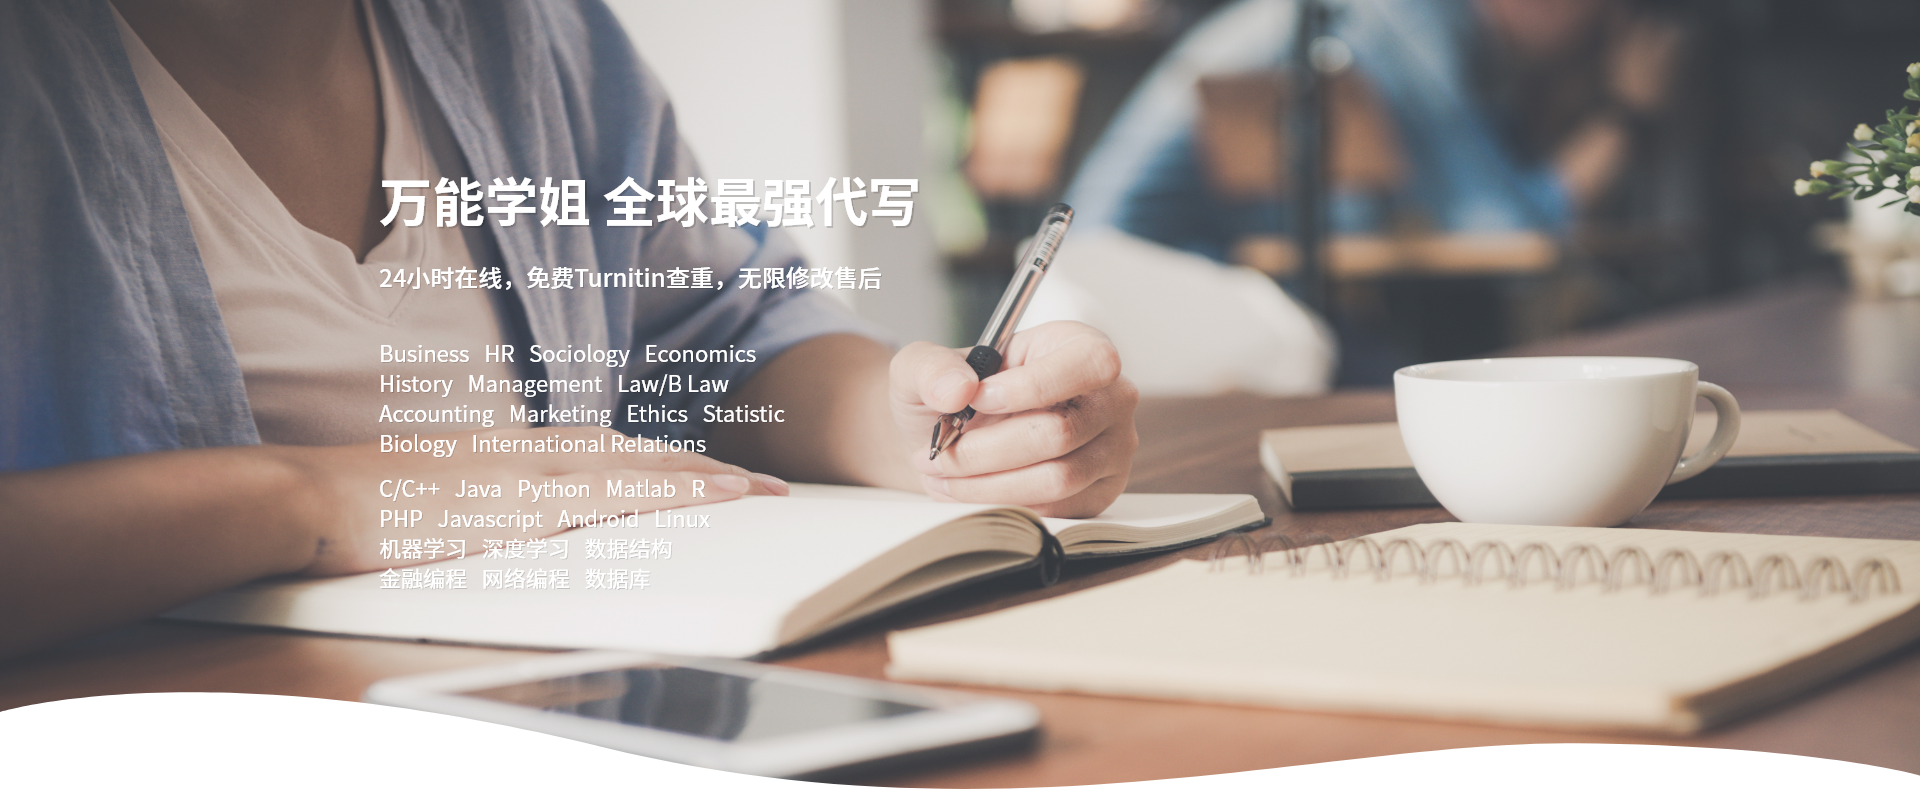
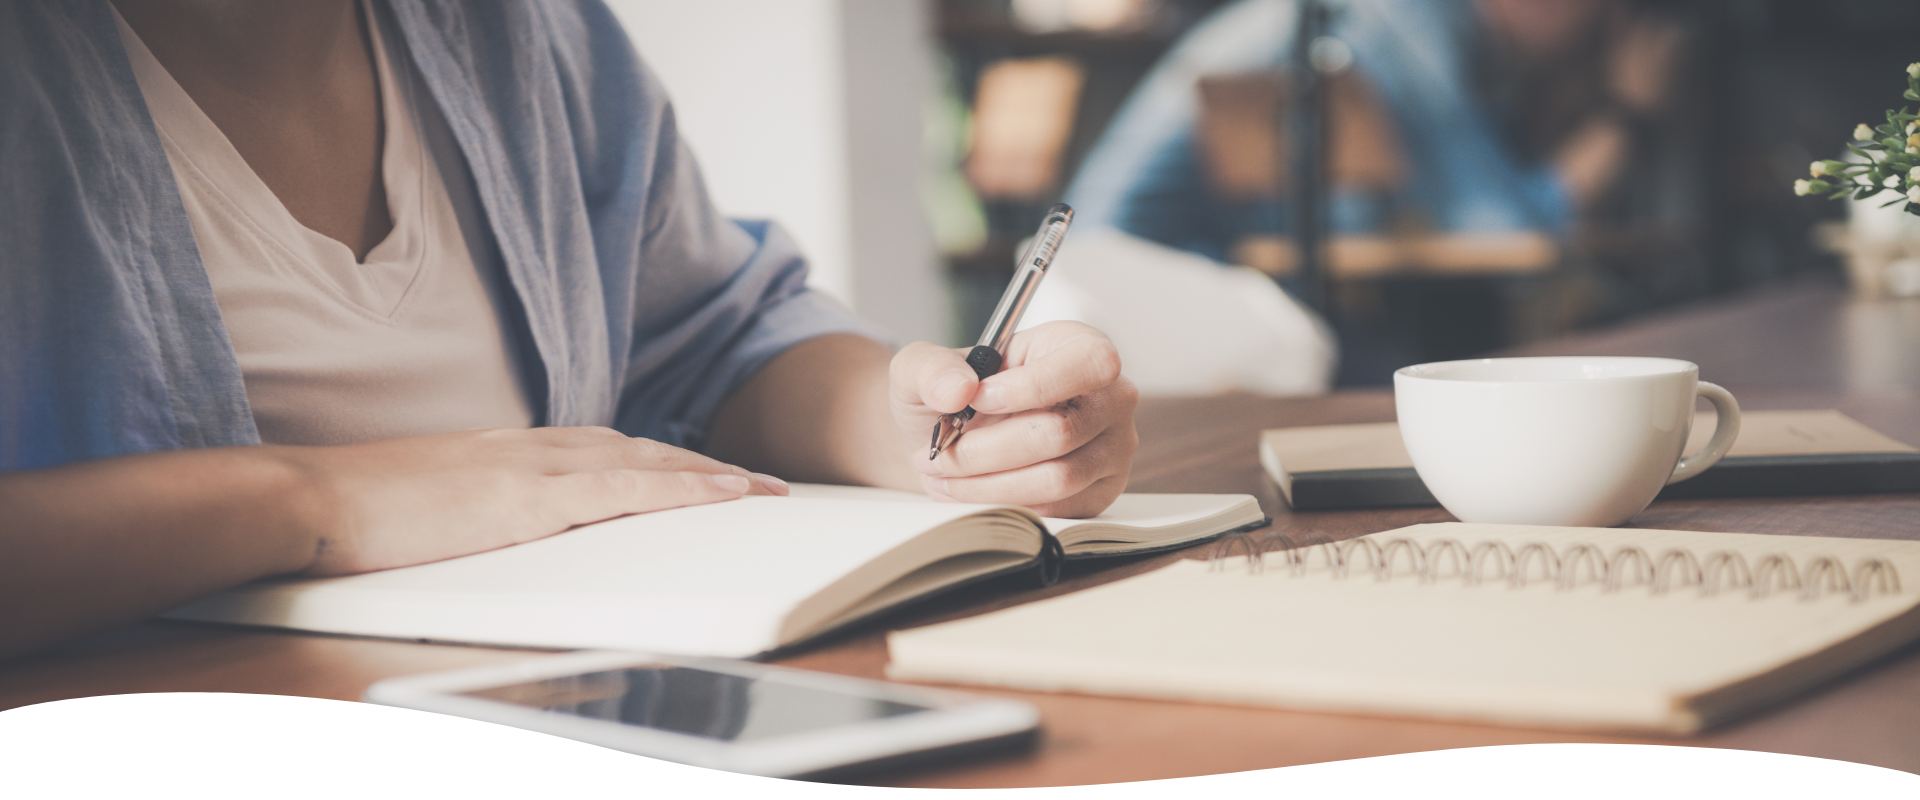
update

diff --git a/Application/Home/View/Index/index.html b/Application/Home/View/Index/index.html
@@ -29,7 +29,22 @@
 <div class="orderBox">
     <img src="__PUBLIC__/Home/img/img_36.png" alt="" class="order_bg">
     <div class="layout orderBg">
+        <div class="leftTxt">
+            <h6>万能学姐 全球最强代写 </h6>
+            <p>24小时在线，免费Turnitin查重，无限修改售后</p>
+            <div class="orderLefts">
+                <p>Business   HR   Sociology   Economics  <br>
+                    History   Management   Law/B Law<br>
+                    Accounting   Marketing   Ethics   Statistic  <br>
+                    Biology   International Relations</p>
+                <p>C/C++   Java   Python   Matlab   R<br>
+                    PHP   Javascript   Android   Linux<br>
+                    机器学习   深度学习   数据结构<br>
+                    金融编程   网络编程   数据库</p>
+            </div>
+        </div>
         <div class="order" id="sel">
+            <form action="">
             <p class="orderTit">预估价格</p>
             <div class="select_down">
                 <dl>
@@ -64,6 +79,7 @@
                     </dt>
                 </dl>
             </div>
+            </form>
             <div class="price">
                 <p class="price_tit">原价：</p>
                 <p class="price_con" id="price_num"><span>￥</span>0.00 </p>
@@ -237,13 +253,13 @@
         <foreach name="content" item="vo" >
             <ul class="casrList clearfix" style="display: {$key==0?block:none};">
                 <foreach name="vo" item="v" >
-                <li>
-                    <img src="{$v.img_url}" alt="">
-                    <div class="cTit">
-                        <h6>{$v.title}</h6>
-                        <p>{$v.content}</p>
-                    </div>
-                </li>
+                    <li>
+                        <img src="{$v.img_url}" alt="">
+                        <div class="cTit">
+                            <h6>{$v.title}</h6>
+                            <p>{$v.content}</p>
+                        </div>
+                    </li>
                 </foreach>
             </ul>
         </foreach>
@@ -260,11 +276,11 @@
             <div class="swiper-container feedBanner">
                 <div class="swiper-wrapper">
                     <foreach name="banner" item="vo" >
-                    <div class="swiper-slide feedBbox">
-                        <foreach name="vo" item="v" >
-                            <img src="{$v.image}" alt="">
-                        </foreach>
-                    </div>
+                        <div class="swiper-slide feedBbox">
+                            <foreach name="vo" item="v" >
+                                <img src="{$v.image}" alt="">
+                            </foreach>
+                        </div>
                     </foreach>
                 </div>
             </div>
@@ -407,8 +423,16 @@
         window.location.href = "{:U('/Home/Form/index')}?title2="+title2+'&title3='+title3+'&word_num='+word_num+'&price_num='+price_num+'&end_time='+end_time;
     })
 
-    $("input[name='word_num']").bind("input propertychange",function () {
-        get_price($(this).val());
+    // $("input[name='word_num']").bind("input propertychange",function () {
+    //     get_price($(this).val());
+    // });
+
+    $("#sel ul li").bind("click",function () {
+        check_data();
+    });
+
+    $("#sel input").bind("input propertychange",function () {
+        check_data();
     });
 
     $("#sub").click(function () {
@@ -430,8 +454,8 @@
         {
             var now_val = val - 100;
         }
-        get_price(now_val);
         inp.val(now_val);
+        check_data();
         return ;
     });
 
@@ -447,10 +471,33 @@
             val = parseInt(val);
         }
         var now_val = val + 100
-        get_price(now_val);
         inp.val(now_val);
+        check_data();
         return ;
     });
+
+    function check_data()
+    {
+        var data = $("#sel form").serializeArray();
+        console.log(data);
+        var change_price = true;
+        for(i=0;i<data.length;i++)
+        {
+            if(data[i].value == '')
+            {
+                change_price = false;
+                break;
+            }
+        }
+        if(change_price)
+        {
+            get_price($("input[name='word_num']").val());
+        }
+        else
+        {
+            get_price(0);
+        }
+    }
 
     function get_price($word_num)
     {

diff --git a/Application/Home/View/Form/index.html b/Application/Home/View/Form/index.html
@@ -11,7 +11,7 @@
 <div class="Boxbg Box1">
     <div class="NavBox layout">
         <div class="logo">
-            <a href="#"><img src="__PUBLIC__/Home/img/img_6.png" alt=""></a>
+            <a href="{:U('Home/index/index')}"><img src="__PUBLIC__/Home/img/img_6.png" alt=""></a>
         </div>
         <ul class="nav clearfix nav_order">
             <li class="navAct"><a href="{:U('Home/index/index')}?sel=0">万能学姐</a></li>
@@ -392,6 +392,34 @@
                 break;
             }
 
+            var msg = '';
+            if($data[i].name == "user_phone")
+            {
+                if(!(/^1(3|4|5|6|7|8|9)\d{9}$/.test($data[i].value))){
+                    msg = "手机号码有误，请重填";
+                }
+            }
+            else if($data[i].name == "user_mail")
+            {
+                if(!(/^\w+((-\w+)|(\.\w+))*\@[A-Za-z0-9]+((\.|-)[A-Za-z0-9]+)*\.[A-Za-z0-9]+$/.test($data[i].value))){
+                    msg = "邮箱错误，请重填";
+                }
+            }
+            if(msg != '')
+            {
+                layui.use('layer', function(){
+                    var layer = layui.layer;
+                    layer.closeBtn = 0;
+                    layer.open({
+                        title: '提示',
+                        closeBtn: 0,
+                        content: msg,
+                    });
+                });
+                return;
+                break;
+            }
+
             var text = '';
             if($data[i].name == 'title1' || $data[i].name == 'title2' || $data[i].name == 'title3' || $data[i].name == 'title4' || $data[i].name == 'title5')
             {
@@ -452,8 +480,12 @@
         window.location.href = "{:U('Home/Form/index')}";
     });
 
-    $("#submit input[name='word_num']").bind("input propertychange",function () {
-        get_price($(this).val());
+    $("#submit .option li").bind("click",function () {
+        check_data();
+    });
+
+    $("#submit input").bind("input propertychange",function () {
+        check_data();
     });
 
     $("#sub").click(function () {
@@ -475,8 +507,8 @@
         {
             var now_val = val - 100;
         }
-        get_price(now_val);
         inp.val(now_val);
+        check_data();
         return ;
     });
 
@@ -492,10 +524,36 @@
             val = parseInt(val);
         }
         var now_val = val + 100
-        get_price(now_val);
         inp.val(now_val);
+        check_data();
         return ;
     });
+
+    function check_data()
+    {
+        var data = $("#submit").serializeArray();
+        var change_price = true;
+        for(i=0;i<data.length;i++)
+        {
+            if(data[i].name == "order_need")
+            {
+                continue;
+            }
+            if(data[i].value == '')
+            {
+                change_price = false;
+                break;
+            }
+        }
+        if(change_price)
+        {
+            get_price($("#submit input[name='word_num']").val());
+        }
+        else
+        {
+            get_price(0);
+        }
+    }
 
     function get_price($word_num)
     {

diff --git a/Public/Home/css/main.css b/Public/Home/css/main.css
@@ -296,22 +296,24 @@ input::-ms-input-placeholder {
     top: 0;
     width: 100%;
     height: 800px;
+	object-fit: cover;
 }
 
 .orderBg {
     position: relative;
+    display: flex;
+    flex-wrap: wrap;
+    justify-content: space-between;
+    padding-top: 175px;
 }
 
 .order {
-    width: 410px;
-    height: 480px;
-    background: rgba(255, 255, 255, 1);
-    position: absolute;
-    right: 10px;
-    border-radius: 10px;
-    top: 175px;
-    padding: 0 30px;
-    box-sizing: border-box;
+	width: 410px;
+	height: 480px;
+	background: rgba(255, 255, 255, 1);
+	border-radius: 10px;
+	padding: 0 30px;
+	box-sizing: border-box;
 }
 
 .orderTit {
@@ -1509,7 +1511,7 @@ input::-ms-input-placeholder {
     border-radius: 10px;
     position: fixed;
     top: 250px;
-    right: 40px;
+    left: 40px;
     background: #FD9025;
     text-align: center;
 
@@ -1768,4 +1770,32 @@ input::-ms-input-placeholder {
 }
 .dropText{
     margin-left:10px;
+}
+/* 左边 */
+.leftTxt{
+    position: relative;
+    z-index: 11;
+    width: 554px;
+    margin-left: 20px;
+}
+.leftTxt>h6{
+    font-size:53px;
+    font-weight:bold;
+    color:rgba(255,255,255,1);
+}
+.leftTxt>p{
+   margin-top: 38px;
+    font-size:24px;
+    font-weight:bold;
+    padding-bottom: 33px;
+    color:rgba(255,255,255,1);
+}
+.orderLefts p{
+    font-size:22px;
+    line-height:30px;
+    color:rgba(255,255,255,1);
+    margin-top: 20px;
+}
+.on{
+    background: rgba(16, 29, 46, 0.85)
 }

diff --git a/Public/Home/js/main.js b/Public/Home/js/main.js
@@ -72,3 +72,12 @@ $(function () {
         }, 300);
     });
 })
+$(window).scroll(function() {
+    var top = $(window).scrollTop();
+    // console.log(top)
+    if(top>=10){
+        $(".Box").addClass("on");
+        }else{
+        $(".Box").removeClass("on");
+    }
+});
